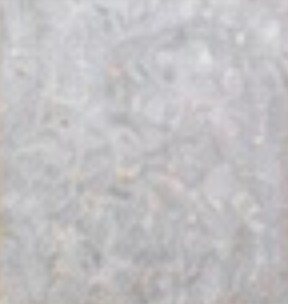
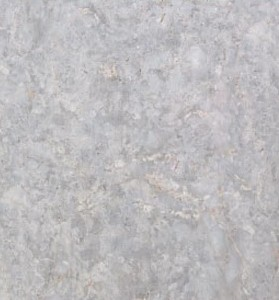
Ganti foto Marble Series dengan versi tajam
- 22 motif dipotong ulang dari katalog resolusi tinggi (Matt Concrete tetap)
- Spesifikasi Motif Marble: lebar 120 cm, panjang 240 cm, tebal 3 mm
- Ejaan Zürich; foto di lightbox ditampilkan lebih besar

Claude-Session: https://claude.ai/code/session_017cfuhMcdWJUUQcLU6hNbKU

diff --git a/assets/js/pengaturan.js b/assets/js/pengaturan.js
@@ -101,7 +101,7 @@ const PENGATURAN = {
             { nama: 'Premium Matte Material', spesifikasi: [], motif: [
               { nama: 'Matt Concrete', foto: 'foto/produk/wall-board/marble-series/matt-concrete', baru: true }
             ] },
-            { nama: 'Motif Marble', spesifikasi: [], motif: [
+            { nama: 'Motif Marble', spesifikasi: [['Lebar', '120 cm'], ['Panjang', '240 cm'], ['Ketebalan', '3 mm']], motif: [
               { nama: 'New York', foto: 'foto/produk/wall-board/marble-series/new-york' },
               { nama: 'Nagoya', foto: 'foto/produk/wall-board/marble-series/nagoya' },
               { nama: 'London', foto: 'foto/produk/wall-board/marble-series/london' },
@@ -119,7 +119,7 @@ const PENGATURAN = {
               { nama: 'Brussels', foto: 'foto/produk/wall-board/marble-series/brussels' }
             ] },
             { nama: 'New Size', spesifikasi: [['Lebar', '120 cm'], ['Panjang', '240 / 300 cm'], ['Ketebalan', '3 mm']], motif: [
-              { nama: 'Zurich', foto: 'foto/produk/wall-board/marble-series/zurich' },
+              { nama: 'Zürich', foto: 'foto/produk/wall-board/marble-series/zurich' },
               { nama: 'Santorini', foto: 'foto/produk/wall-board/marble-series/santorini' },
               { nama: 'Montreal', foto: 'foto/produk/wall-board/marble-series/montreal' }
             ] }

diff --git a/assets/css/style.css b/assets/css/style.css
@@ -460,7 +460,7 @@ footer h4{color:var(--on-dk);font-size:10px;letter-spacing:.26em;text-transform:
 #lb{position:fixed;inset:0;z-index:170;background:rgba(12,11,9,.94);display:grid;place-items:center;opacity:0;visibility:hidden;transition:opacity .5s,visibility .5s;padding:60px 70px}
 #lb.on{opacity:1;visibility:visible}
 #lb figure{max-width:100%;max-height:100%;display:flex;flex-direction:column;align-items:center;gap:14px}
-#lb img{max-width:min(1200px,100%);max-height:calc(100vh - 160px);border-radius:14px;object-fit:contain;transform:scale(.94);transition:transform .6s var(--ease),opacity .3s}
+#lb img{max-width:min(1200px,100%);max-height:calc(100vh - 200px);min-height:min(460px,55vh);border-radius:14px;object-fit:contain;transform:scale(.94);transition:transform .6s var(--ease),opacity .3s}
 #lb.on img{transform:none}
 #lb figcaption{color:#e2c29e;font-family:var(--serif);font-size:22px}
 #lb button{position:absolute;background:rgba(255,255,255,.08);border:1px solid rgba(255,255,255,.2);color:#fff;width:52px;height:52px;border-radius:50%;cursor:pointer;font-size:18px;transition:background .3s}

diff --git a/PANDUAN-FOTO.md b/PANDUAN-FOTO.md
@@ -60,7 +60,7 @@ Wall Board punya bagian **Koleksi** berisi Marble Series dari Mevvah: 23 motif d
 
 - Foto motif ada di `foto/produk/wall-board/marble-series/`, satu file per motif
   (nama motif huruf kecil, spasi jadi `-`, mis. `new-york.jpg`).
-- Foto saat ini dipotong dari gambar katalog sehingga resolusinya rendah —
+- Foto sudah versi tajam, kecuali `matt-concrete.jpg` yang masih resolusi rendah —
   **timpa dengan foto HD memakai nama file yang sama**.
 - Menambah motif, grup, atau seri baru (juga untuk produk lain): edit bagian `koleksi`
   di `assets/js/pengaturan.js`. Tandai motif baru dengan `baru: true` agar muncul label "New".
